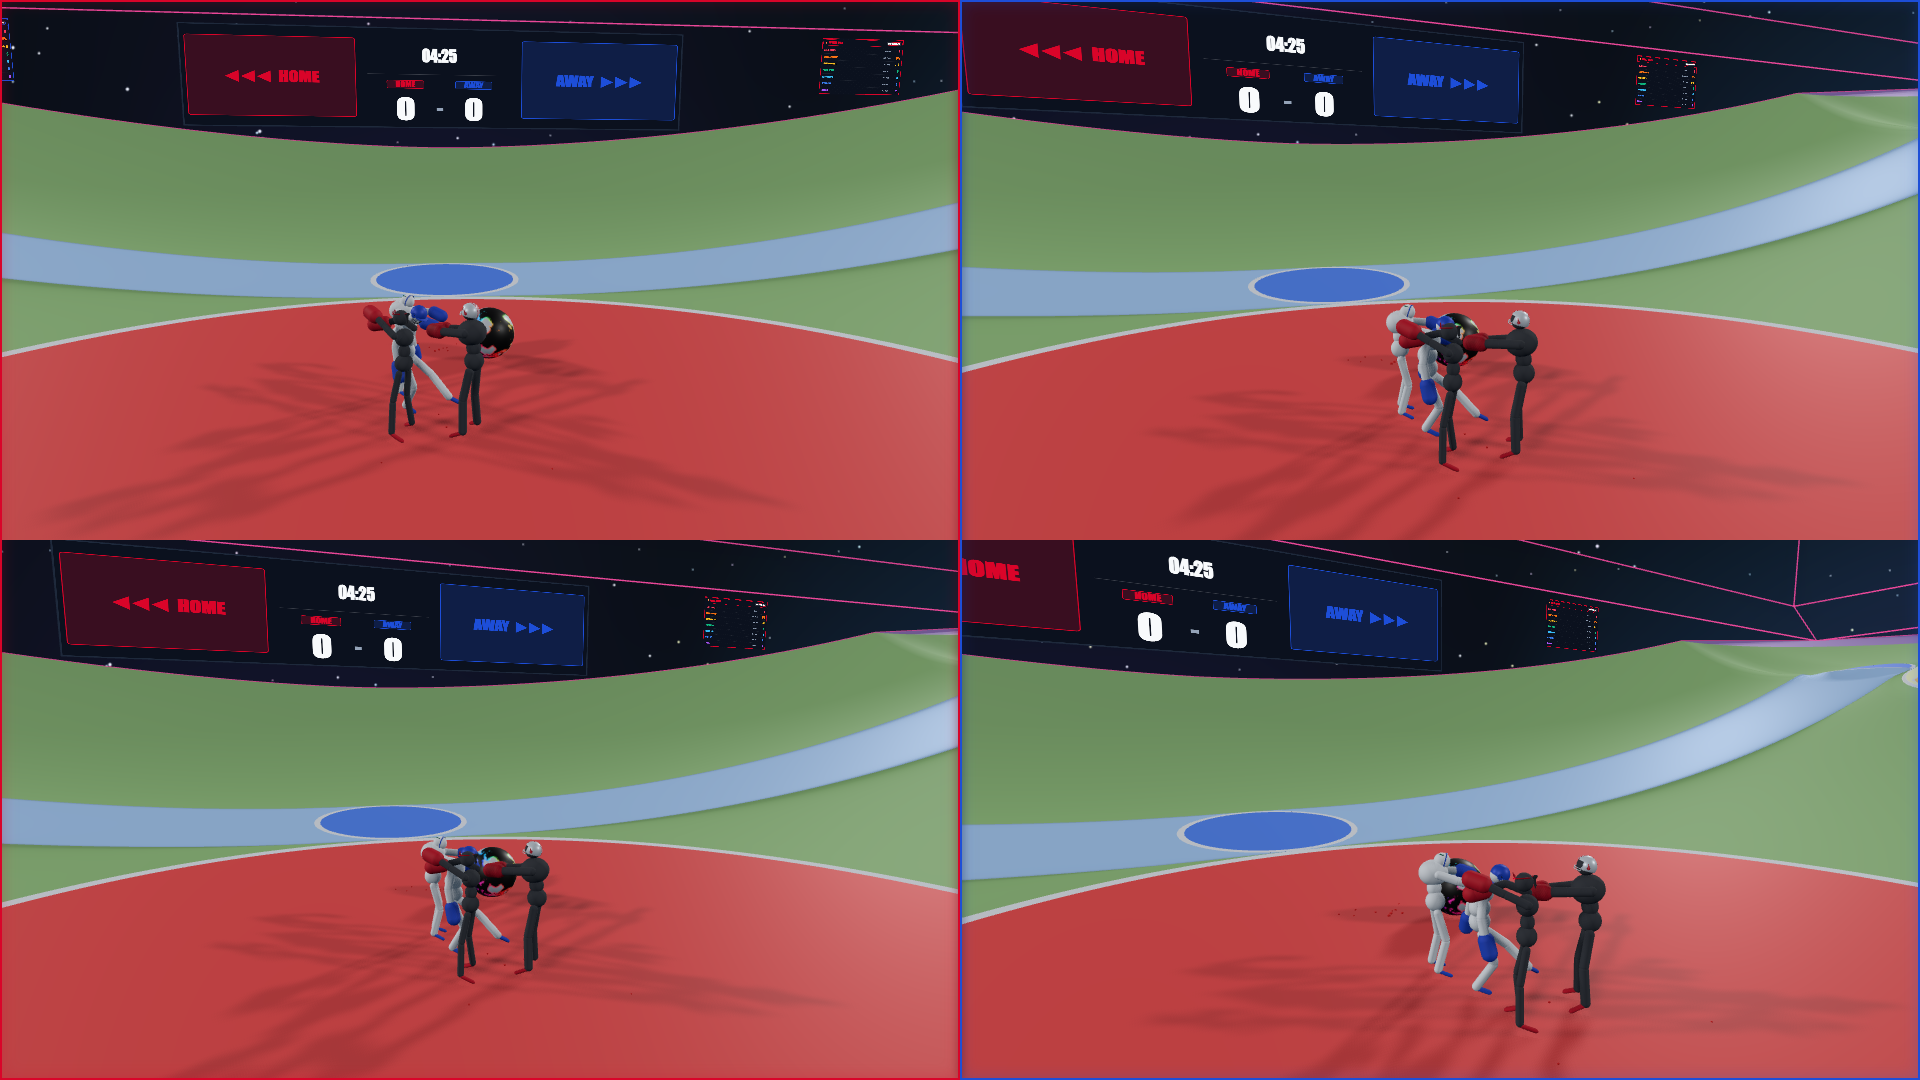
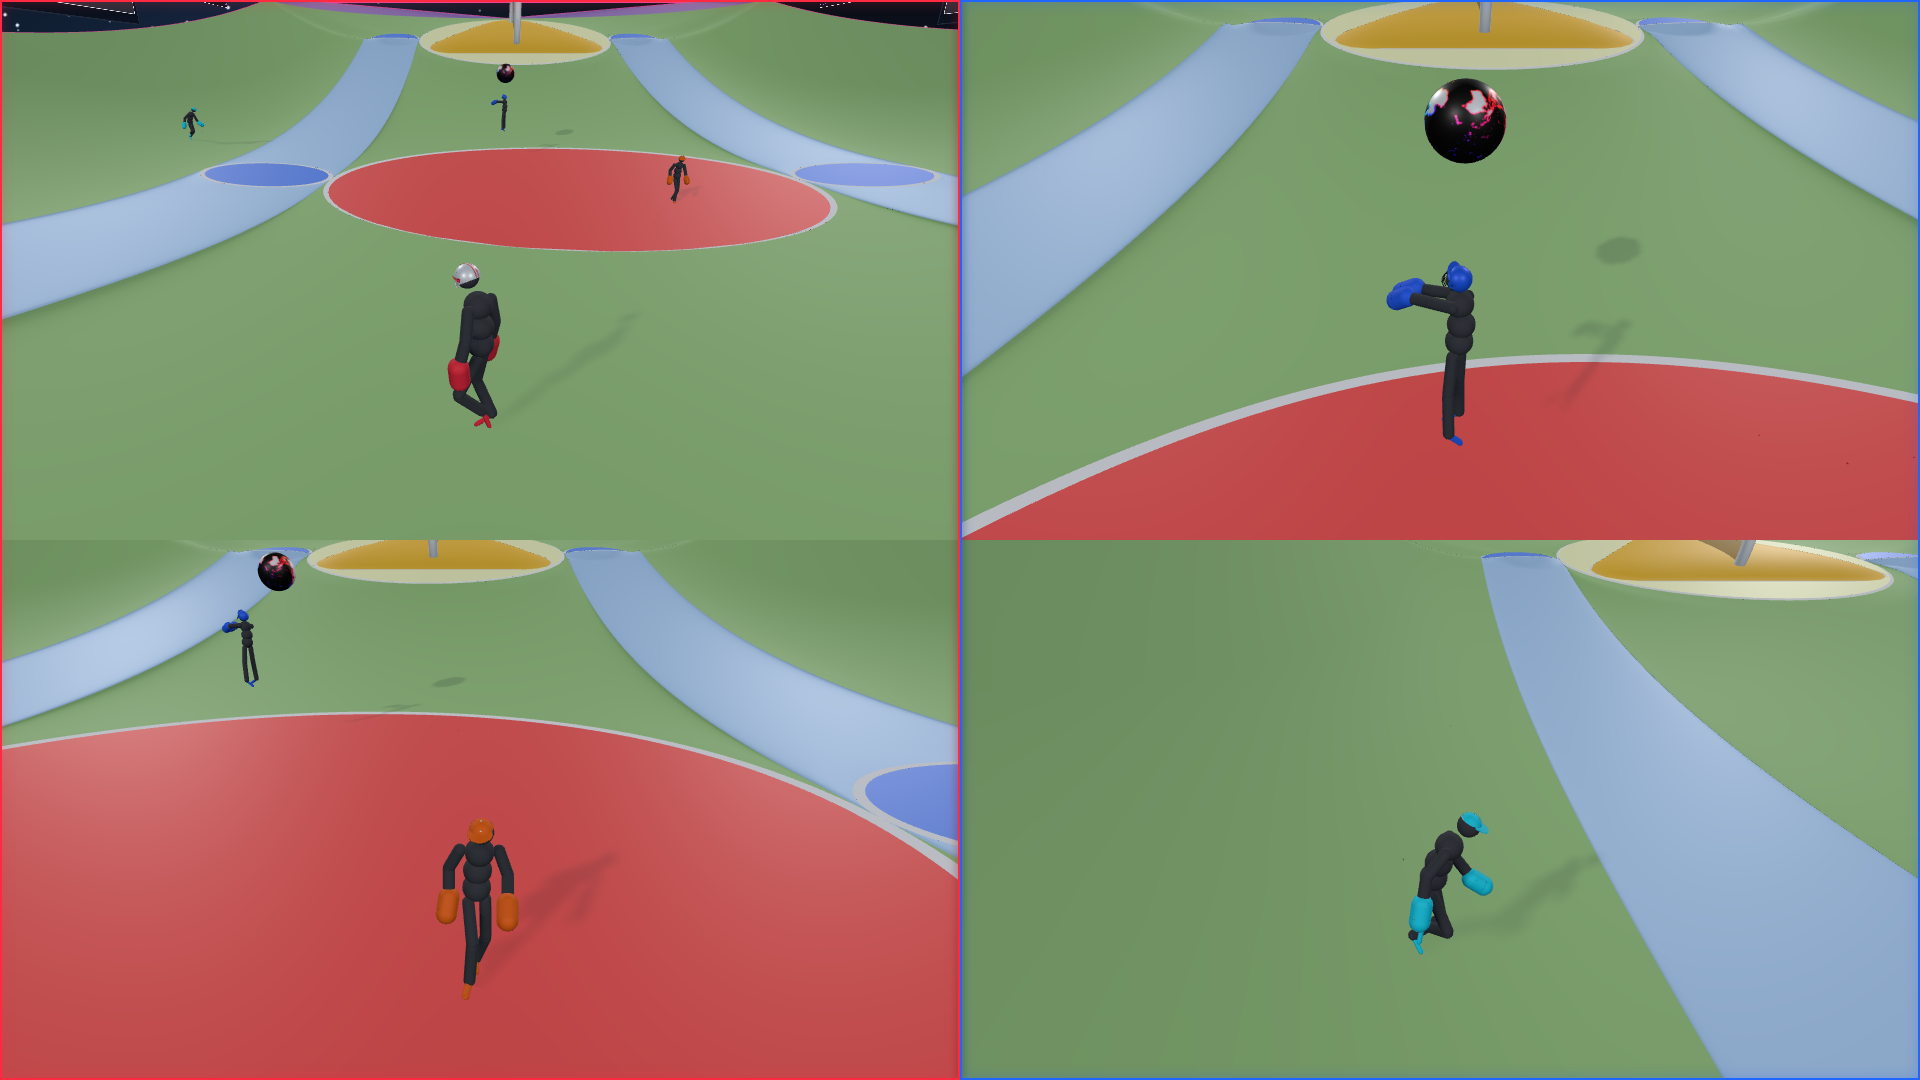
chore: save v0.4.0 polish before remote sync

diff --git a/index.html b/index.html
@@ -34,7 +34,7 @@
 
    IDENTITY: Dark vs Light value conflict with hard athletic edges.
    Home/Dark on obsidian, Away/Light inverted to chalk.
-   Full continuous spectral rainbow touches per VB-SPEC v2.4.
+   Full continuous spectral rainbow touches per VB-SPEC v0.4.0.
    ========================================================================= */
 :root {
   color-scheme: dark;
@@ -782,10 +782,8 @@ footer{background:var(--d-deep);color:var(--d-ink);padding-block:38px 46px;
   </a>
   <nav class="nav-links">
     <a class="nav-link" href="#the-game">The Game</a>
-    <a class="nav-link" href="#roster">Roster & Locker</a>
-    <a class="nav-link" href="#dispatch">Dispatch</a>
-    <a class="nav-link" href="#customization">Customization</a>
     <a class="nav-link" href="#gameplay">Gameplay</a>
+    <a class="nav-link" href="#championship">Championship</a>
     <a class="nav-link" href="how-to-play.html" style="color:var(--spec-cyan);font-weight:700">How To Play</a>
     <a class="nav-btn" href="https://cascadiajac.itch.io/valleyball-versus">Play Free</a>
   </nav>
@@ -1475,13 +1473,14 @@ footer{background:var(--d-deep);color:var(--d-ink);padding-block:38px 46px;
         <a href="how-to-play.html">How to Play</a>
         <a href="#roster">Roster & Locker</a>
         <a href="https://valleyball.org/athletes.html" target="_blank" rel="noopener">The 10 Athletes (Lore) ↗</a>
+        <a href="https://www.reddit.com/r/valleyballversus" target="_blank" rel="noopener">Reddit r/valleyballversus ↗</a>
         <a href="https://www.youtube.com/@valleyball" target="_blank" rel="noopener">YouTube ↗</a>
         <a href="https://www.twitch.tv/valleyball" target="_blank" rel="noopener">Twitch ↗</a>
         <a href="https://www.tiktok.com/@jacvalleyball?lang=en" target="_blank" rel="noopener">TikTok ↗</a>
         <a href="https://github.com/valleyballjac/Valleyball-Versus">GitHub</a>
         <a href="https://valleyball.org">valleyball.org</a>
       </nav>
-      <div class="foot-meta">Valleyball Versus v0.4.0 // The 2v2 Update · Road to Dec 27 Championship</div>
+      <div class="foot-meta">© 2026 Valleyball Athletic Corporation. All rights reserved. · Valleyball Versus v0.4.0 // The 2v2 Update · VB-SPEC v0.4.0 · Road to Dec 27 Championship</div>
     </div>
   </footer>
 

diff --git a/how-to-play.html b/how-to-play.html
@@ -903,10 +903,11 @@ footer{background:var(--d-deep);padding-block:36px 44px;border-top:1px solid var
       <a href="index.html">Versus Home</a>
       <a href="https://cascadiajac.itch.io/valleyball-versus">Play on itch.io</a>
       <a href="https://valleyball.org">valleyball.org</a>
-      <a href="https://www.youtube.com/@valleyball">YouTube</a>
-      <a href="https://www.twitch.tv/valleyball">Twitch</a>
+      <a href="https://www.reddit.com/r/valleyballversus" target="_blank" rel="noopener">Reddit r/valleyballversus ↗</a>
+      <a href="https://www.youtube.com/@valleyball" target="_blank" rel="noopener">YouTube ↗</a>
+      <a href="https://www.twitch.tv/valleyball" target="_blank" rel="noopener">Twitch ↗</a>
     </div>
-    <div style="font-family:var(--mono);font-size:10px;color:#6B6D7A">Official Rules & Mechanics · v0.4.0 Verified · VB-SPEC v2.4</div>
+    <div style="font-family:var(--mono);font-size:10px;color:#6B6D7A">© 2026 Valleyball Athletic Corporation. All rights reserved. · Official Rules & Mechanics · VB-SPEC v0.4.0</div>
   </div>
 <script>
 // Track outbound clicks to play on itch.io in Google Analytics
